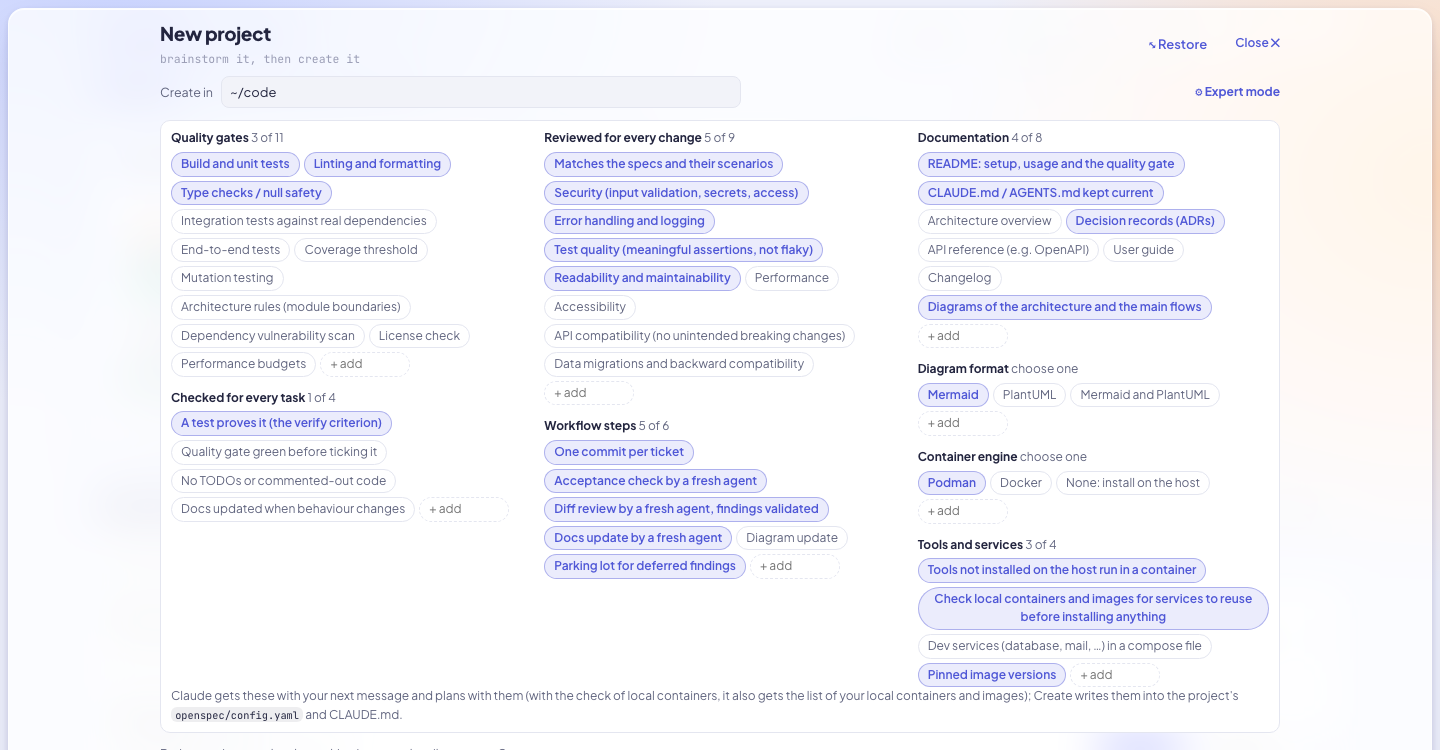
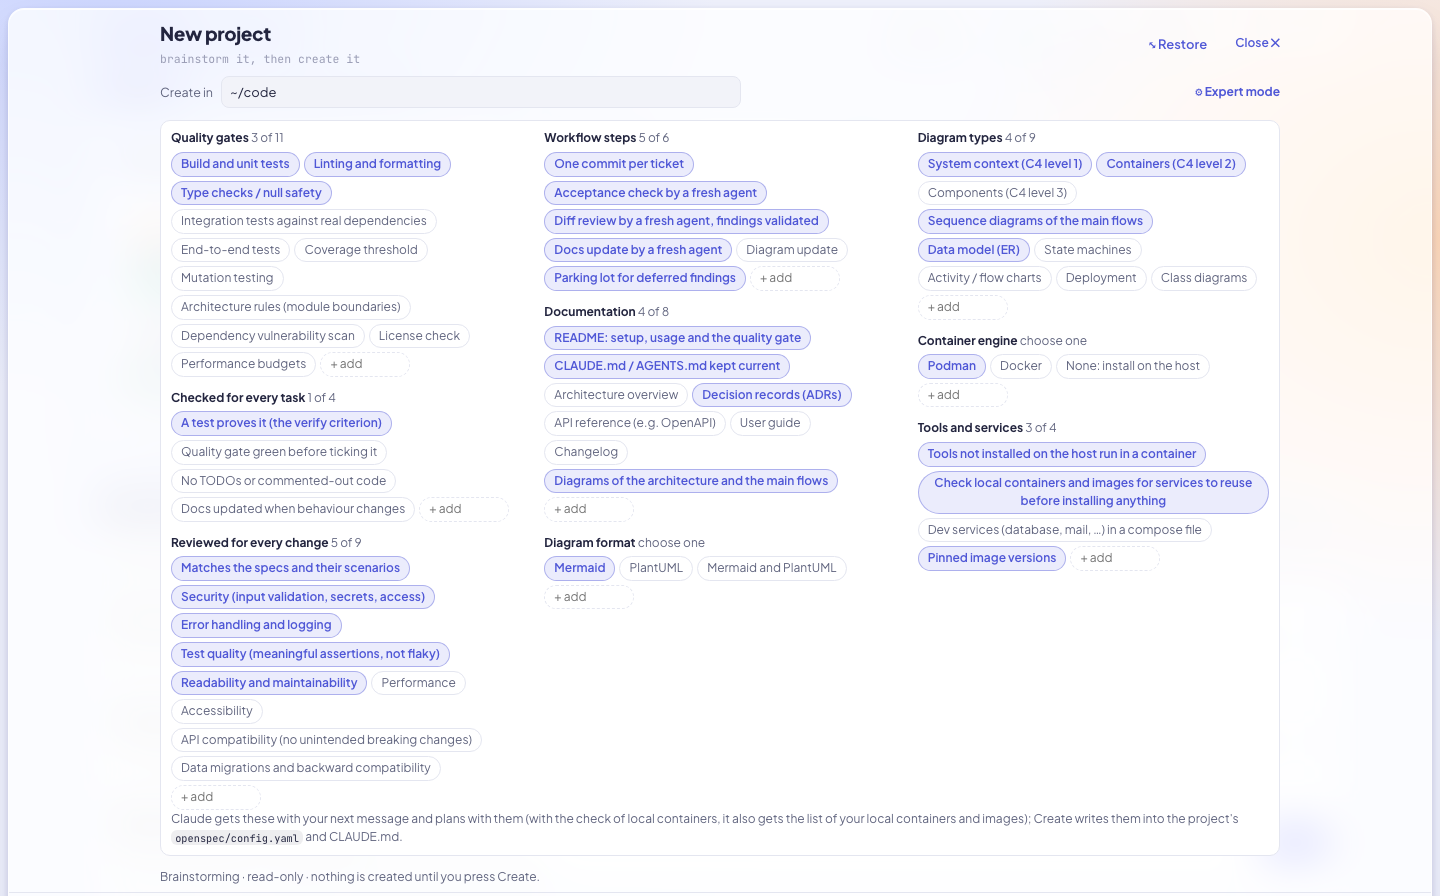
Dashboard: diagram types in the expert mode
A new group sets which diagrams a new project draws and keeps current:
system context and containers (C4), components, sequence diagrams of the
main flows, the data model (ER), state machines, activity or flow charts,
deployment and class diagrams (context, containers, sequence and ER by
default). The brainstorm plans them in the chosen format, and the setup
puts them into CLAUDE.md and openspec/config.yaml.

diff --git a/tools/openspec-dashboard/index.html b/tools/openspec-dashboard/index.html
@@ -4155,6 +4155,7 @@ const EXPERT = [
   ['flow', 'Workflow steps', [['One commit per ticket', 1], ['Acceptance check by a fresh agent', 1], ['Diff review by a fresh agent, findings validated', 1], ['Docs update by a fresh agent', 1], ['Diagram update', 0], ['Parking lot for deferred findings', 1]]],
   ['docs', 'Documentation', [['README: setup, usage and the quality gate', 1], ['CLAUDE.md / AGENTS.md kept current', 1], ['Architecture overview', 0], ['Decision records (ADRs)', 1], ['API reference (e.g. OpenAPI)', 0], ['User guide', 0], ['Changelog', 0], ['Diagrams of the architecture and the main flows', 1]]],
   ['diagrams', 'Diagram format', [['Mermaid', 1], ['PlantUML', 0], ['Mermaid and PlantUML', 0]], ONE],
+  ['diagramTypes', 'Diagram types', [['System context (C4 level 1)', 1], ['Containers (C4 level 2)', 1], ['Components (C4 level 3)', 0], ['Sequence diagrams of the main flows', 1], ['Data model (ER)', 1], ['State machines', 0], ['Activity / flow charts', 0], ['Deployment', 0], ['Class diagrams', 0]]],
   ['engine', 'Container engine', [['Podman', 1], ['Docker', 0], ['None: install on the host', 0]], ONE],
   ['services', 'Tools and services', [['Tools not installed on the host run in a container', 1], [XP_CHECK, 1], ['Dev services (database, mail, …) in a compose file', 0], ['Pinned image versions', 1]]],
 ];
@@ -4215,7 +4216,7 @@ function renderNewProject() {
   $('sc-title').innerHTML = 'New project<span class="sc-path">brainstorm it, then create it</span>';
   const cr = sc.create;
   morphHtml($('sc-bar'), `<div class="ag-row np-row"><label class="np-parent">Create in <input id="np-parent" value="${esc(sc.parentInput ?? '')}" spellcheck="false" autocomplete="off" ${jobs.length ? 'readonly title="Start a new brainstorm to choose another folder"' : ''}></label>
-      <button class="link xp-toggle" type="button" data-xp-toggle aria-pressed="${xp.open}" title="Quality gates, task checks, review topics, workflow steps, documentation, diagram format and containers for the new project">⚙ Expert mode</button>
+      <button class="link xp-toggle" type="button" data-xp-toggle aria-pressed="${xp.open}" title="Quality gates, task checks, review topics, workflow steps, documentation, diagram format and types, and containers for the new project">⚙ Expert mode</button>
       ${jobs.length ? '<button class="link" type="button" data-np-fresh>New brainstorm</button>' : ''}</div>
     ${xpHtml()}
     ${cr ? `<div class="ag-row np-create"><span class="ag-note">Create</span><code>${esc((sc.parentInput ?? '').replace(/\/$/, ''))}/</code><input id="np-name" value="${esc(cr.name)}" spellcheck="false" autocomplete="off">

diff --git a/docs/user-guide.md b/docs/user-guide.md
@@ -309,6 +309,9 @@ defaults; **+ add** takes your own entries:
   overview, decision records (ADRs), an API reference, a user guide, a changelog, diagrams of the architecture and
   the main flows;
 - **Diagram format** (choose one): Mermaid (the default; GitHub renders it), PlantUML, or both;
+- **Diagram types**: which diagrams the project draws and keeps current, e.g. system context and containers (C4),
+  components, sequence diagrams of the main flows, the data model (ER), state machines, activity or flow charts,
+  deployment, class diagrams;
 - **Container engine** (choose one): Podman (the default), Docker, or none (install on the host);
 - **Tools and services**: tools that are not installed on the host run in a container; check the local containers
   and images for services to reuse before installing anything; dev services in a compose file; pinned image
@@ -316,7 +319,7 @@ defaults; **+ add** takes your own entries:
 
 Claude gets them with your next message and plans with them (the first ticket sets up the chosen gates). **Create**
 makes them binding: they go into the project's `openspec/config.yaml` (the quality gate, the rules for tasks, what
-every review covers, the documentation and the diagram format) and its CLAUDE.md. Your choices are remembered for the
+every review covers, the documentation, the diagram format and types) and its CLAUDE.md. Your choices are remembered for the
 next project.
 
 With the container check on, the dashboard adds the list of your local containers and images to the message (it

diff --git a/tools/openspec-dashboard/README.md b/tools/openspec-dashboard/README.md
@@ -56,7 +56,8 @@ onboarded one.
 
 **⚙ Expert mode** in that panel sets the workflow the project starts with: quality gates, what every task is
 checked for, what every change is reviewed for, the workflow steps, the documentation to keep, the diagram format
-(Mermaid, PlantUML or both; one choice), the container engine (Podman, Docker or none; one choice) and how tools
+(Mermaid, PlantUML or both; one choice) and the diagram types to draw (C4 context and containers, sequence, ER,
+state, deployment, …), the container engine (Podman, Docker or none; one choice) and how tools
 and services are run, as toggle chips with defaults and your own entries (remembered in the browser). With "Check
 local containers and images for services to reuse" on, the server adds the list of local containers and images
 (`ps -a` and `images` of the chosen engine; nothing is started) to the message, so Claude suggests reusing e.g. a

diff --git a/README.md b/README.md
@@ -209,7 +209,7 @@ What makes it more than a status page:
   `CLAUDE.md` or `AGENTS.md`, lets you chat with Claude about whether one is worth it, and sets up OpenSpec there
   in the background (nothing committed). Or **start a new project**: brainstorm it with Claude, and once you agree
   it is created with its roadmap and followed from then on; an **expert mode** sets its quality gates, task checks,
-  review topics, workflow steps, documentation, diagram format (Mermaid by default) and container engine up front,
+  review topics, workflow steps, documentation, diagram format (Mermaid by default) and types, and container engine up front,
   and lets Claude check your local containers for a service to reuse (e.g. a running Postgres) before anything is
   installed on the host.
 - **Ten styles**, from Flat and Glass to Clay, Paper, Blackboard or a green-screen Terminal.
